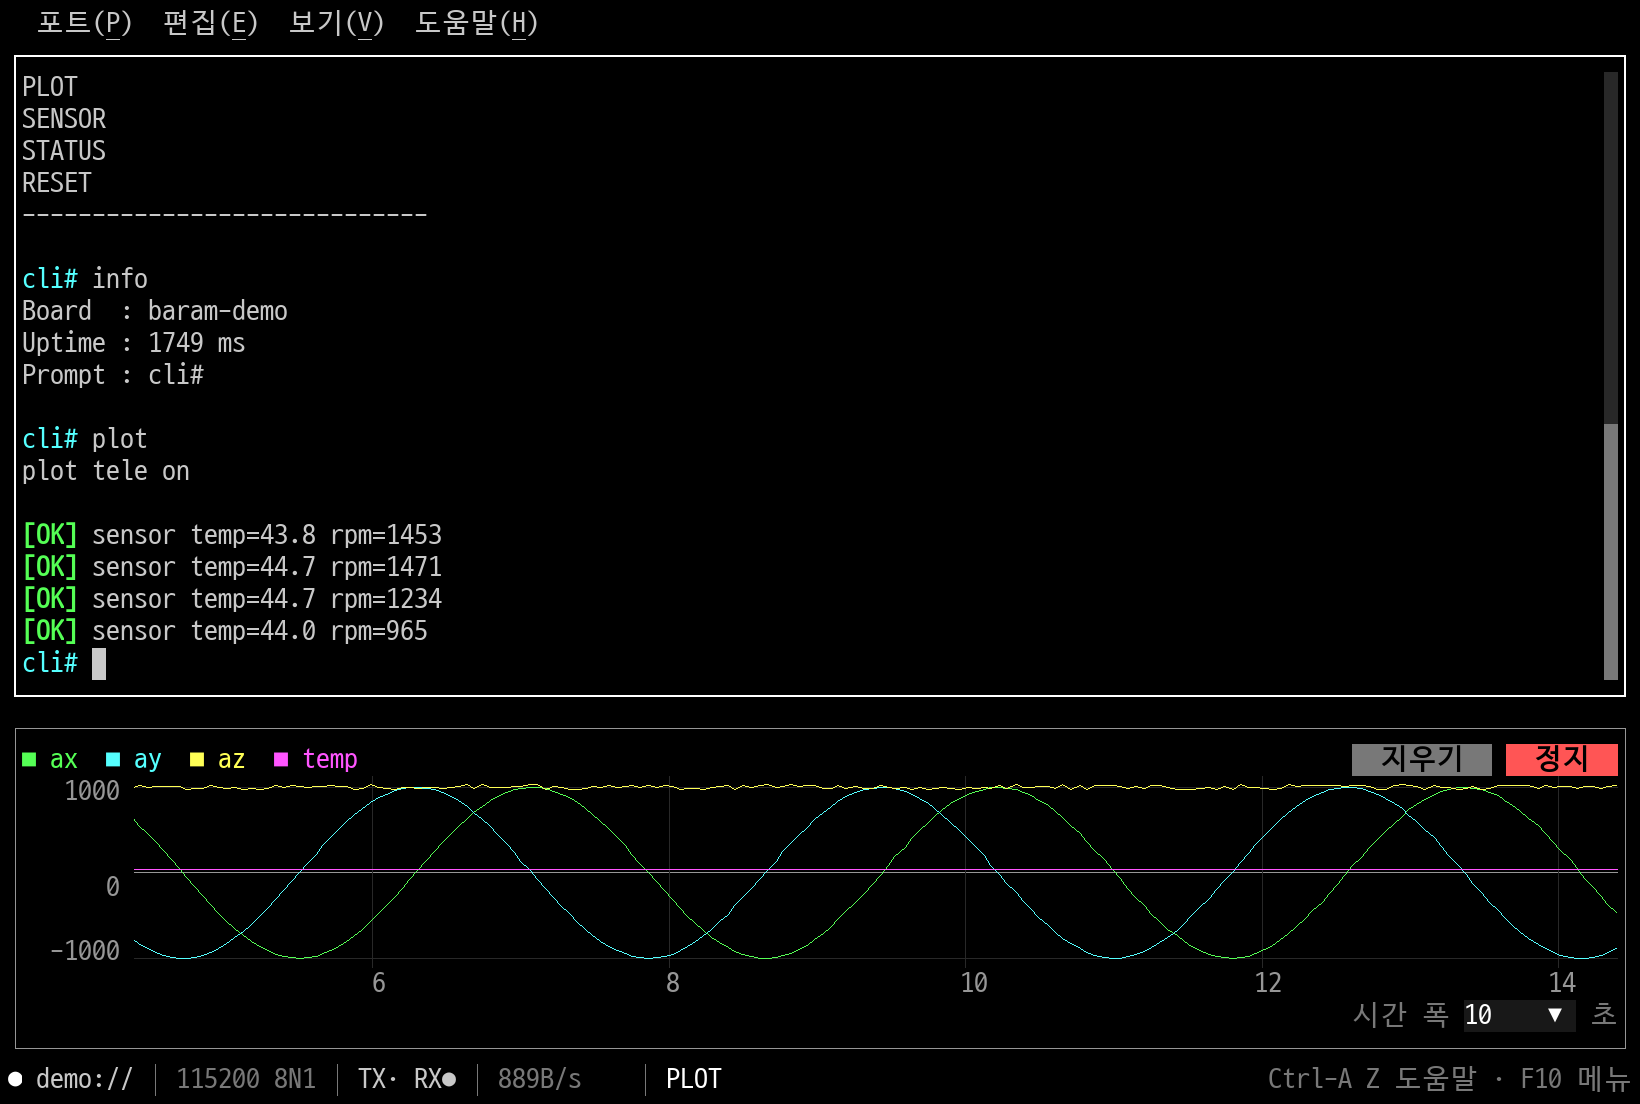
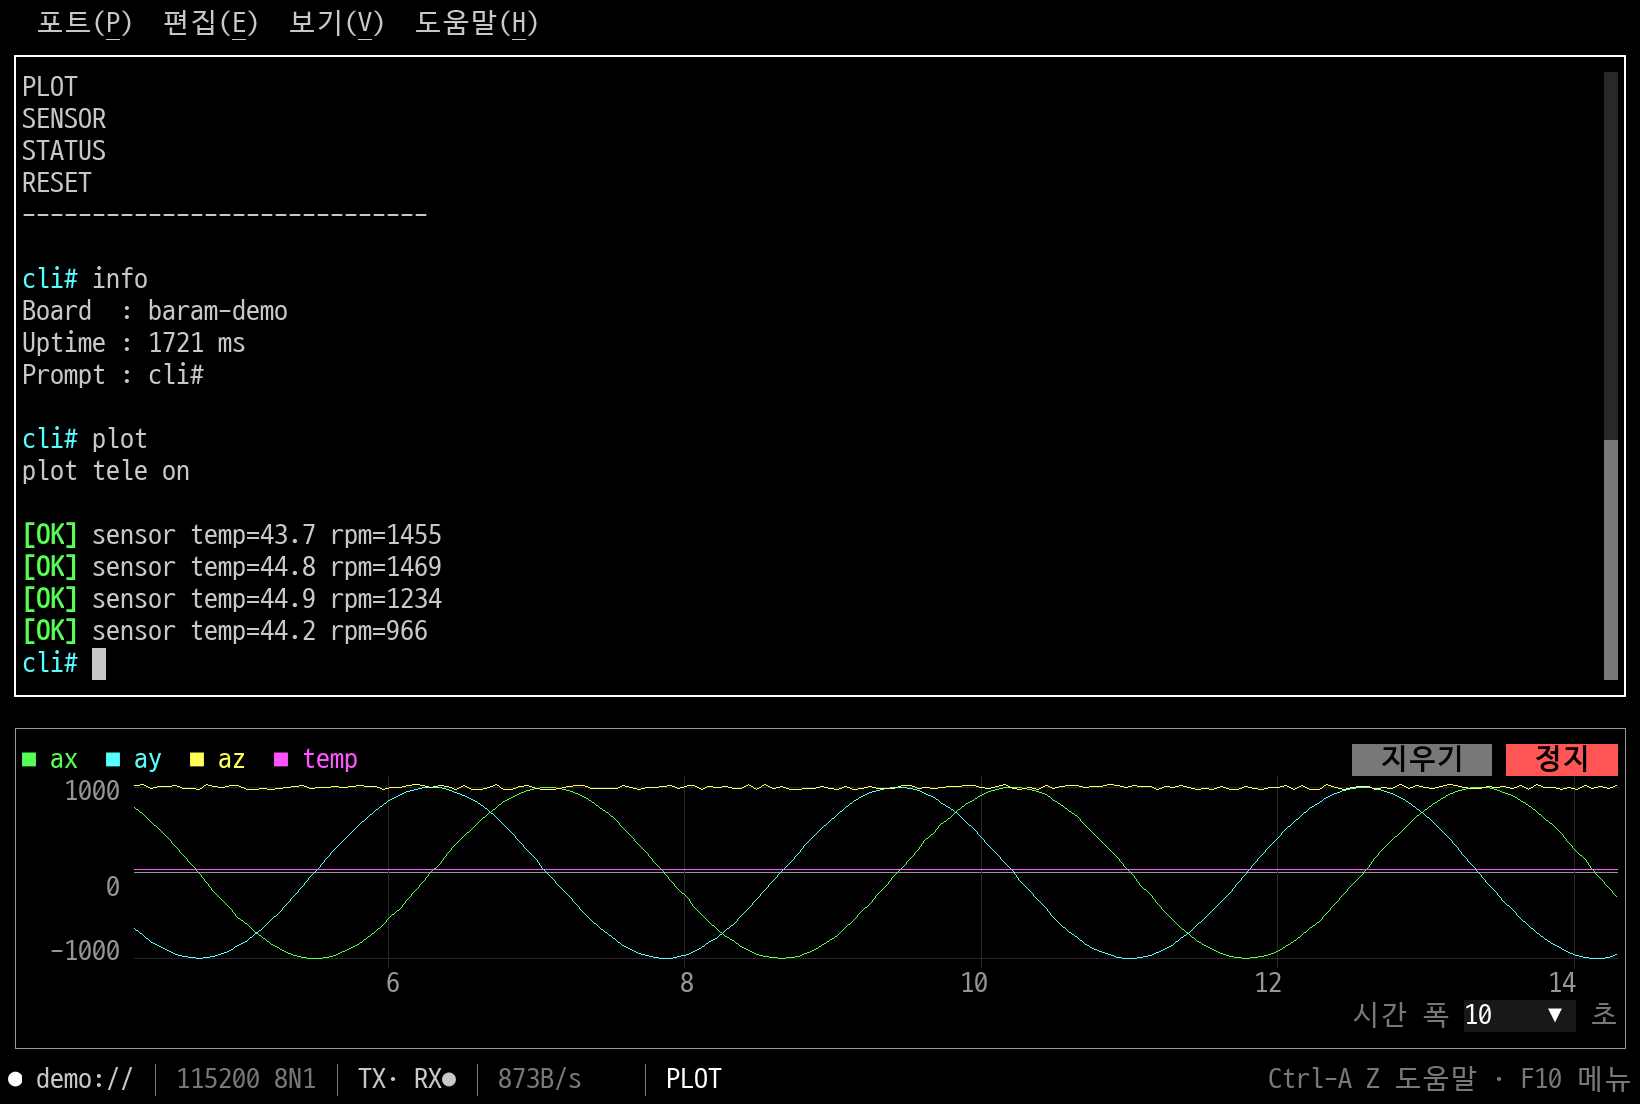
Keep a wide char that straddles the edge of a partial repaint
CellBuffer.put replaces a two-cell character with a space when it does
not fit before the clip's right edge. That clip is the area being
repainted, not the screen, so a Hangul character on the boundary simply
vanished: the status bar hint read "F10 메" with room to spare, and only
a full repaint brought it back.

Widen the damaged area by one cell on each side before painting. The
screen edge still cuts, since the area is intersected with buf.rect.

The screenshot script no longer needs its full-repaint workaround.

diff --git a/retro-ui/tests/test_app_headless.py b/retro-ui/tests/test_app_headless.py
@@ -5,6 +5,7 @@ import pygame
 import pytest
 
 from retroui import App, Button, CheckBox, GroupBox, HBox, Label, Signal, Spacer, VBox
+from retroui.core.geometry import Rect
 from retroui.input.events import Key, KeyEvent, Mod, MouseEvent
 from retroui.render.cellbuffer import Attr
 
@@ -167,3 +168,29 @@ def test_hover_highlights_button_and_checkbox(app):
     assert not b.hovered and cb.hovered
     assert app.buf.get(b.rect.x + 1, b.rect.y)[2] == button_bg
     assert app.buf.get(cb.rect.x, cb.rect.y)[2] != check_bg
+
+
+def test_partial_repaint_keeps_a_wide_char_at_its_edge():
+    """다시 그릴 영역의 경계에 걸린 2칸 글자가 사라지면 안 된다.
+
+    상태줄 오른쪽 안내가 폭이 남는데도 "F10 메" 로 잘려 보이던 문제.
+    CellBuffer.put 은 2칸 글자가 클립 오른쪽 끝에 걸치면 공백으로 바꾸는데,
+    그 클립이 화면 끝이 아니라 그때 다시 그리는 영역의 끝이었다.
+    """
+    try:
+        app = App(title="t", size=(20, 3), headless=True)
+    except (FileNotFoundError, ValueError) as e:
+        pytest.skip(str(e))
+    try:
+        label = Label("가나다")  # 6칸, 오른쪽 끝에 붙인다
+        app.set_root(VBox(HBox(Spacer(), label), Spacer()))
+        app.step()
+        row = app.buf.row_text(label.rect.y)
+        assert row.rstrip().endswith("가나다")
+
+        # 마지막 글자('다', 18~19열)를 반으로 가르는 영역만 다시 그린다
+        app.invalidate(Rect(0, label.rect.y, 19, 1))
+        app.step()
+        assert app.buf.row_text(label.rect.y).rstrip().endswith("가나다")
+    finally:
+        app.close()

diff --git a/retro-ui/src/retroui/app.py b/retro-ui/src/retroui/app.py
@@ -794,7 +794,10 @@ class App:
 
         rects: list[pygame.Rect] = []
         if self._damage is not None:
-            clip = self._damage.intersect(self.buf.rect)
+            # 좌우로 한 칸씩 넓혀서 다시 그린다. 다시 그릴 영역의 경계에 2칸짜리 글자(한글 등)가
+            # 걸리면 CellBuffer.put 이 그 자리를 공백으로 바꿔 글자가 사라졌다
+            # (상태줄 오른쪽 안내가 "F10 메" 로 잘려 보였다). 화면 끝에서는 buf.rect 가 막아 준다
+            clip = self._damage.inset(-1, 0, -1, 0).intersect(self.buf.rect)
             self._damage = None
             if not clip.empty:
                 pal = self.theme.palette

diff --git a/docs/images/make_screenshot.py b/docs/images/make_screenshot.py
@@ -46,7 +46,5 @@ type_line("plot")
 # 켠 뒤로는 입력하지 않는다: 그래프 줄이 터미널에서 깨끗하게 빠진 모습이 남는다
 pump(11.5)
 
-term.app.invalidate()   # 전체 다시 그리기 (부분 갱신에서 줄 끝 한글이 빠지는 문제 회피)
-term.app.step()
 pygame.image.save(term.app.surface, out)
 print("saved", out, term.app.surface.get_size())
